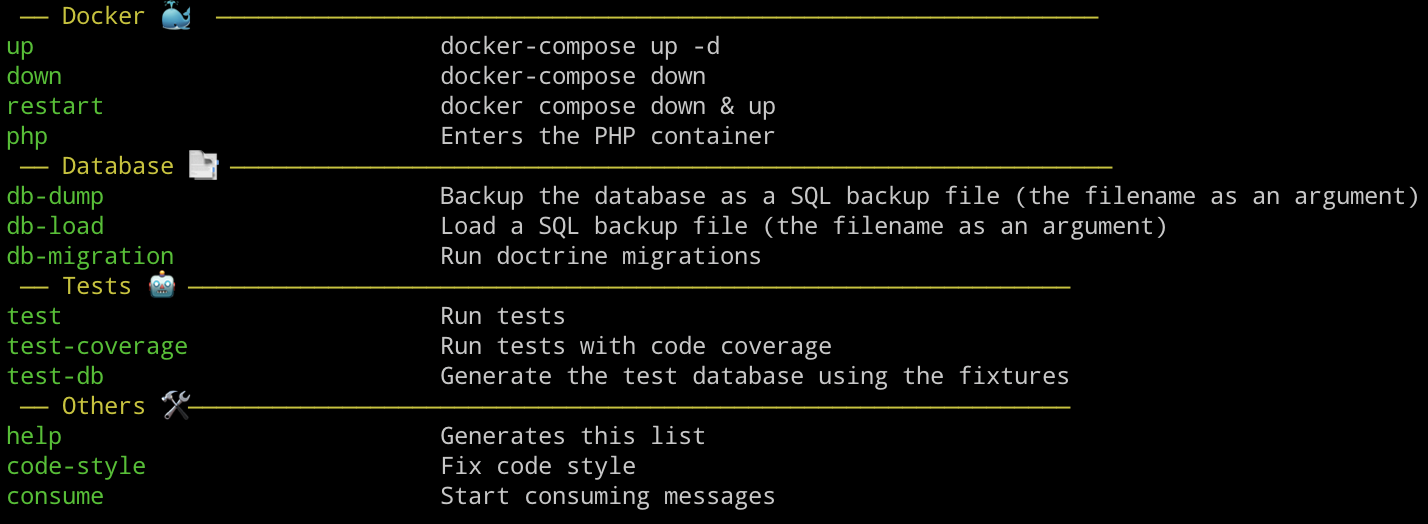
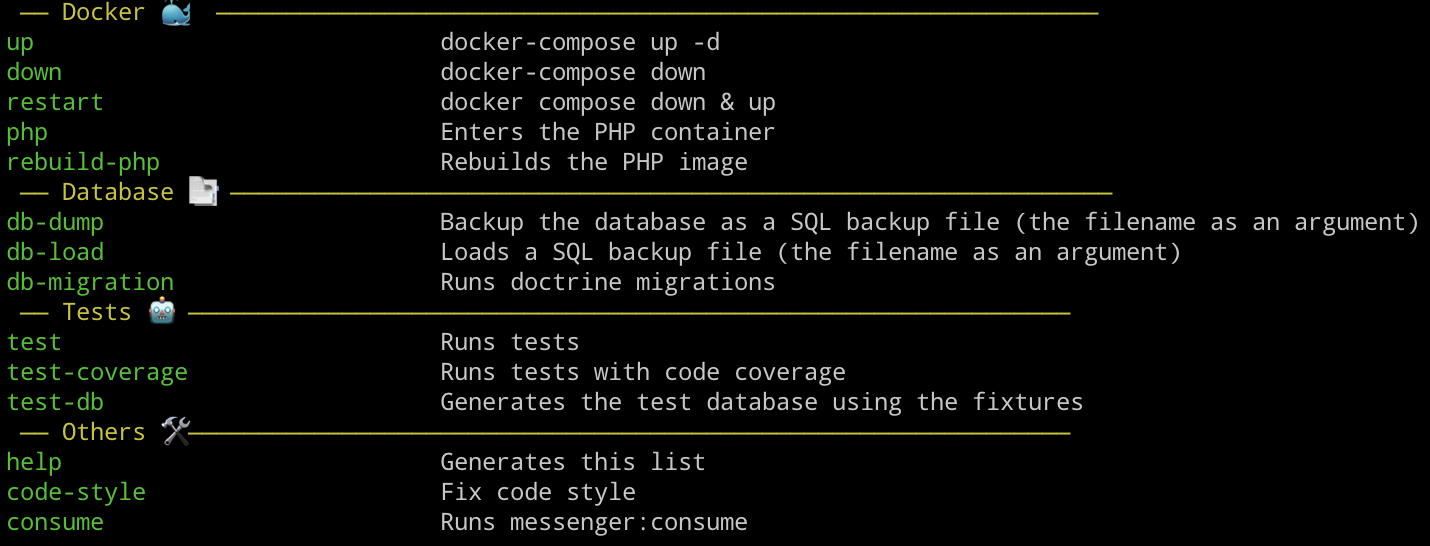
Updates README

Changed region(s): [[0.0, 0.0, 1.0, 0.9771]]

diff --git a/README.md b/README.md
@@ -19,6 +19,7 @@ Make commands
 - `make down` (or `make d`) to stop and remove the containers
 - `make restart` (or `make r`) to restart the containers
 - `make php` to enter the php container
+- `make rebuil-php` (or `make rp`) to rebuild the php image
 
 *Database*
 
@@ -38,4 +39,4 @@ Make commands
 
 *Rabbit MQ*
 
-- `make consume` (or `make c` ) to start consuming messages
+- `make consume` (or `make c` ) to run messenger:consume
